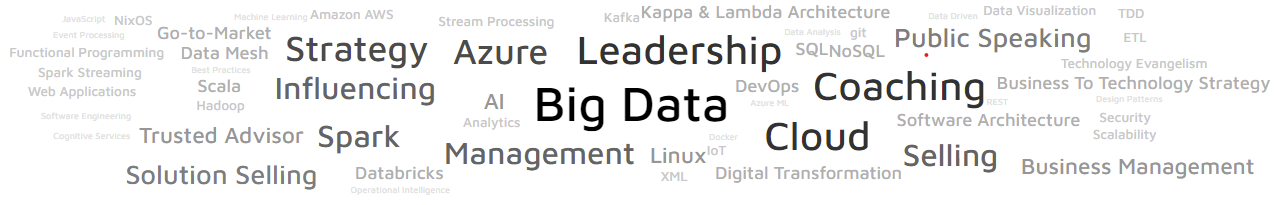
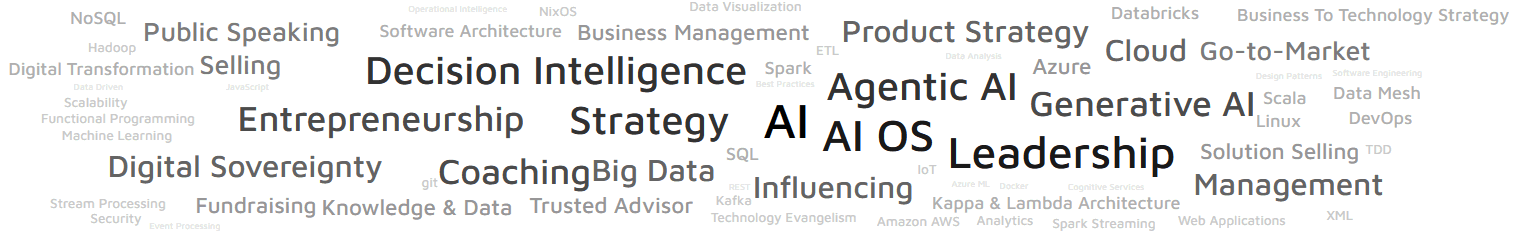
cv update

diff --git a/cv/_skills/management.md b/cv/_skills/management.md
@@ -1,8 +1,10 @@
-<div>As a <h4>People Manager</h4> with an extensive <strong>Cloud, Data & AI</strong> background I leverage coaching, business understanding and my analytical skills to deliver results.</div>
+<div>As a <h4>Founder & CEO</h4> with an extensive <strong>Cloud, Data & AI</strong> background I combine product vision, business understanding and my analytical skills to build a company and deliver results.</div>
 
-- Coaching & Mentoring
-- Entrepreneurial 
+- Entrepreneurial
+- Company & Team Building
+- Product Vision & Strategy
 - Go to market strategy
+- Coaching & Mentoring
 - Analytical Mindset
 - Business Management
 - Relationship building
@@ -11,4 +13,3 @@
 - Thought Leader
 - Trusted Advisor
 - Scaling people and organizations
-